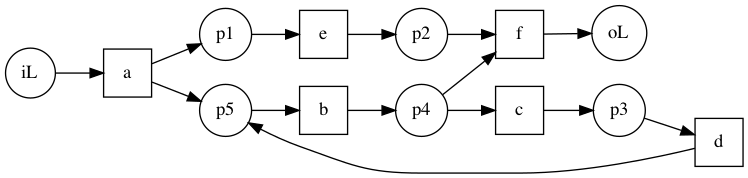
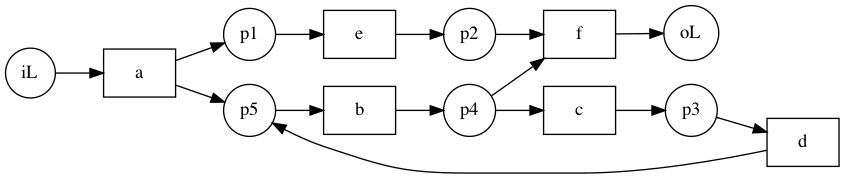
made changes to main.py file, optimizing code partially, deleting print-commands partially, modifying functions...

diff --git a/main.py b/main.py
@@ -19,15 +19,15 @@ class AlphaMiner(object):
 
 
 
-    # Step1 : print out all the present activity names in the event log
+    # Step1 : returns all present activity names in the event log
     def step_1_TL(self):
-        # empty list holding names of all present event.
+        # empty list holding all present event names.
         TL = []
         # take every trace from the event log
         for trace in self.event_log:
             # traverse every event within a trace
             for i in range(len(trace)):
-                # in each event, get access to the activity name
+                # in each event, get access to its activity name
                 name = trace[i]['concept:name']
                 # add the activity name to the list if not yet present
                 if name not in TL:
@@ -35,7 +35,7 @@ class AlphaMiner(object):
         return TL
 
 
-    # Step 2: return the start activity names
+    # Step 2: returns names of all start nodes
     def step_2_TI(self):
         # create an empty set for start activities name
         start_acts = []
@@ -49,7 +49,7 @@ class AlphaMiner(object):
 
 
 
-    # Step 3: returns names of final activity nodes:
+    # Step 3: returns names of all final activity nodes
     def step_3_TO(self):
         # create an empty set for final activities name
         final_acts = []
@@ -61,7 +61,7 @@ class AlphaMiner(object):
                 final_acts.append(final_act)
         return final_acts
 
-    # create a list of element pairs with follow relations
+    # create a list of all pairs of event names with follow relations
     def give_follow_pairs(self):
         follow_pairs = []
         # take every trace from the event log
@@ -71,10 +71,42 @@ class AlphaMiner(object):
                 # in each event, get access to the activity name
                 event_name1 = trace[i]['concept:name']
                 event_name2 = trace[i + 1]['concept:name']
-                if (event_name1, event_name2) not in follow_pairs:
+                # we consider only pairs with event_name1 != event_name2 (event transition ignored)
+                # (for ex: flyerinstances.xes have events of the same activity but of different transitions.
+                if (event_name1, event_name2) not in follow_pairs and event_name1 != event_name2:
                     follow_pairs.append((event_name1, event_name2))
         return follow_pairs
 
+    # This function returns the relation status between 2 certain event names
+    def get_relation_status_of(self, event_name1, event_name2):
+        return self.relations[event_name1][event_name2]
+
+    # This function returns a list of all independent pairs
+    def give_independent_pairs(self):
+        pairs = list()
+        follows = self.follow_pairs
+        # create a list of combinations holding all pairs of event names.
+        combinations = list(itertools.combinations(self.step_1_TL(), 2))
+        for x, y in combinations:
+            # x and y don't follow each other
+            if (x, y) not in follows and (y, x) not in follows:
+                # both (x,y) and (y,x) not added
+                if (x, y) not in pairs and (y, x) not in pairs:
+                    pairs.append((x, y))
+        return pairs
+
+        # This function returns a list of all causal pairs
+
+    # This function returns a list of all causal pairs
+    def give_causal_pairs(self):
+        pairs = list()
+        follows = self.follow_pairs
+        # create a list of permutations of all pairs of event names
+        permutations = list(itertools.permutations(self.step_1_TL(), 2))
+        for x, y in permutations:
+            if (x, y) in follows and (y, x) not in follows:
+                pairs.append((x, y))
+        return pairs
 
     # create a relation matrix storing relation status between all event pairs
     def give_relation_matrix(self):
@@ -82,36 +114,30 @@ class AlphaMiner(object):
         relations = dict()
         # create keys using event names as matrix rows
         for event_name in event_name_list:
-            # each column is an empty dict
+            # the value of each key is again a dictionary
             relations[event_name] = dict()
-            # in each column, define keys as event names again, and values as None
+            # at first, assign each record of matrix a none value.
             for e in event_name_list:
                 relations[event_name][e] = None
-        # Now record the event relations to according matrix elements
         # traverse matrix rows
         for row in relations.keys():
             # traverse matrix column
-            # print(f"row: {row}")
             for col in relations[row].keys():
-                # if this matrix element is not yet filled with any value
-                # print(f"col: {col}")
+                # we handle only records with none values
                 if relations[row][col] == None:
                     if row == col:
                         # relation between any event with itself is independent
                         relations[row][col] = "independent"
                     else:
-                        # if (row,col) and (col,row) are both None
-                        # print(f"row = {row}, col = {col}")
                         pair = (row, col)
-                        follow_list = self.follow_pairs
-                        if relations[row][col] == None and relations[col][row] == None:
-                            # if the pair shows causal relation
-                            # if pair in follow_list and pair[::-1] not in follow_list:
+                        # if for this pair no relations determined yet.
+                        if relations[col][row] == None:
+
+                            # if the pair is of causal relation
                             if pair in self.causal_pairs:
                                 relations[row][col] = "causal"
                                 relations[col][row] = "reverse-causal"
-                            # if the pair shows reverse-causal relation
-                            # elif pair not in follow_list and pair[::-1] in follow_list:
+                            # if the pair is of reverse-causal relation
                             elif pair[::-1] in self.causal_pairs:
                                 relations[row][col] = "reverse-causal"
                                 relations[col][row] = "causal"
@@ -124,70 +150,32 @@ class AlphaMiner(object):
                             else:
                                 relations[row][col] = "parallel"
                                 relations[col][row] = "parallel"
-                #else:
-                    #print(f"row = {row}, col = {col} : {relations[row][col]}")
         return relations
 
-
-    # Step4
-    # This function returns the relation status between 2 events
-    def get_relation_status_of(self, event_name1, event_name2):
-        return self.relations[event_name1][event_name2]
-
-    # This function returns a list of independent pairs
-    def give_independent_pairs(self):
-        pairs = list()
-        follows = self.follow_pairs
-        # create a list of combinations
-        combinations = list(itertools.combinations(self.step_1_TL(), 2))
-        for x, y in combinations:
-            if (x,y) not in follows and (y,x) not in follows:
-                if (x,y) not in pairs and (y,x) not in pairs:
-                    pairs.append((x, y))
-        return pairs
-
-    # This function returns a list of causal pairs
-    def give_causal_pairs(self):
-        pairs = list()
-        follows = self.follow_pairs
-        # create a list of permutations
-        permutations = itertools.permutations(self.step_1_TL(), 2)
-        for x, y in permutations:
-            if (x,y) in follows and (y,x) not in follows:
-                pairs.append((x,y))
-        return pairs
-
-    # This function returns left-causal elements of a certain event
-    def give_left_causal_elements(self, event_name):
-        result = list()
-        for x,y in self.causal_pairs:
-            if y == event_name:
-                list.append(x)
-        return result
-
-    # This function returns right-causal elements of a certain event
+    # This function returns all event names as second element in a follow relation to a certain event name
     def give_right_causal_elements(self, event_name):
-        result = list()
+        right_causals = list()
         for x,y in self.causal_pairs:
             if x == event_name:
-                result.append(y)
-        #print(f"so, the list of right causal elements of {event_name} is {result}")
-        return result
+                right_causals.append(y)
+        return right_causals
 
     # This function can check if an element can be added to an independent list, keeping
     # the list still remaining independent afterwards.
 
-    def can_add_keep_independent(self,event_name, list):
+    def can_add_keep_independent(self, event_name, list):
         if list == None:
             list = list()
+        # return false if event name already contained in list
         if event_name in list:
-            #print("event name already in list")
             return False
         else:
             for other_event_name in list:
+                # if other_event_name not in independent relation to a certain element in list.
                 if self.get_relation_status_of(event_name, other_event_name) != "independent":
                     return False
         return True
+
     # this function returns a power set of a given set of elements
     def powerset(self, iterable):
         result = list(chain.from_iterable(list(itertools.combinations(iterable, r) for r in range(len(iterable) + 1))))
@@ -198,12 +186,12 @@ class AlphaMiner(object):
 
     # this function checks if a given set of elements is independent (only holding elements independent from each other)
     def check_independence_set(self, iterable):
-        # iterable is pretty likely a tuple
+        # iterable is very likely a tuple
         l = iterable
-        # if iterable has 2 elements
+        # if iterable has only 2 elements
         if len(l) == 2:
             return self.get_relation_status_of(l[0], l[-1]) == "independent"
-        # else, iterable has more than 2 elements.
+        # else, iterable has more than 2 elements:
         pairs = itertools.combinations(l, r=2)
         for pair in pairs:
             if self.get_relation_status_of(pair[0],pair[-1]) != "independent":
@@ -376,7 +364,6 @@ class AlphaMiner(object):
     def step_7_FL(self):
         FL = []
         step_5_result = self.step_5_YL()
-        print(f" step 5 result: {step_5_result}")
         i = 1
         # traverse over list
         for tuple in step_5_result:
@@ -422,28 +409,25 @@ class AlphaMiner(object):
         # traverse over each flow
         for flow in flows:
             # if the left element in flow is a place node (its name starts with the character 'p')
-            print(f"for the flow {flow}:")
             # if one of 2 nodes of the flow is a source or sink node
             if flow[0] == 'iL':
                 # the left node is a source node, hence holds a circle shape
                 g.node(name=flow[0], shape='circle')
                 # the right node is a transition node, hence holds a square shape
-                g.node(name=flow[-1], shape='square')
+                g.node(name=flow[-1], shape='rect')
             elif flow[-1] == 'oL':
                 # the right node is a sink node, hence holds a circle shape
                 g.node(name=flow[-1], shape='circle')
                 # the left node is a transition node, hence holds a square shape
-                g.node(name=flow[0], shape='square')
+                g.node(name=flow[0], shape='rect')
             elif flow[0][0] == 'p' and len(flow[0]) == 2:
-                print(f"the left node is circle, the right is square.")
                 # the left node is a place node, hence holds a circle shape
                 g.node(name=flow[0], shape='circle')
                 # the right node is a transition node, hence holds a square shape
-                g.node(name=flow[-1], shape='square')
+                g.node(name=flow[-1], shape='rect')
             else:
-                print(f"the left node is square, the right is circle.")
                 # the left node is a transition node, hence holds a square shape
-                g.node(name=flow[0], shape='square')
+                g.node(name=flow[0], shape='rect')
                 # the right node is a place node, hence holds a circle shape
                 g.node(name=flow[-1], shape='circle')
             # relate 2 nodes above via an edge
@@ -455,13 +439,13 @@ class AlphaMiner(object):
 
 
 
-FILE_PATH = 'uploads/L1.xes'
+#FILE_PATH = 'uploads/L1.xes'
 #FILE_PATH = 'uploads/L2.xes'
 #FILE_PATH = 'uploads/L3.xes'
 #FILE_PATH = 'uploads/L4.xes'
-#FILE_PATH = 'uploads/L5.xes'
+FILE_PATH = 'uploads/L5.xes'
 #FILE_PATH = 'uploads/L6.xes'
-FILE_PATH = 'uploads/L7.xes'
+#FILE_PATH = 'uploads/L7.xes'
 #FILE_PATH = 'uploads/billinstances.xes'
 #FILE_PATH = 'uploads/flyerinstances.xes'
 #FILE_PATH = 'uploads/posterinstances.xes'
@@ -470,8 +454,4 @@ FILE_PATH = 'uploads/L7.xes'
 
 al_miner = AlphaMiner(FILE_PATH)
 
-#print(al_miner.step_4_XL())
-#print(al_miner.step_5_YL())
-
-print(f"step 7: {al_miner.step_7_FL()}")
 al_miner.draw_diagram()

diff --git a/tasks_and_demos.py b/tasks_and_demos.py
@@ -1,25 +1,17 @@
 # to do tasks (until monday)
-# 1. improve the functionality of adding loops (ask on Tuesday if this is a natural error of Alpha alg.)
 
-
-
-# 4. css for source node (with black inner circle)
+# 1. css for source node (with black inner circle)
+    # review code, delete print commands (half-done)
+    # review the constructor definition
     # css the whole website once again
-    # test with other test files too. (DONE)
-        # reorder place nodes
     # try upload to the gitlab
-# 5. optimize the code
 
-# 2. ask if my diagram has to exactly assemble the ones (DONE)
-    # order the place nodes alphabetically from left to right
-        # i came across the solution idea that, i should sequentially traverse the diagram node after node
-        # and adapt the name of each place i come by.
-        # --> difficult because we have no way to traverse a graphviz diagram
+# 2. optimize the code
+    # reorder place nodes
 
+# 3. learn postman tutorial
 
-# 6. study heuristic miner and try implementing it
-# 7. learn postman tutorial
-
-# 8. more questions for further development:
+# 4. more questions for further development:
     # should i let the page work in sessions ? (the program doesn't have to recreate a new object for each
     # page loading
+    # study other mining techniques and try implementing them
